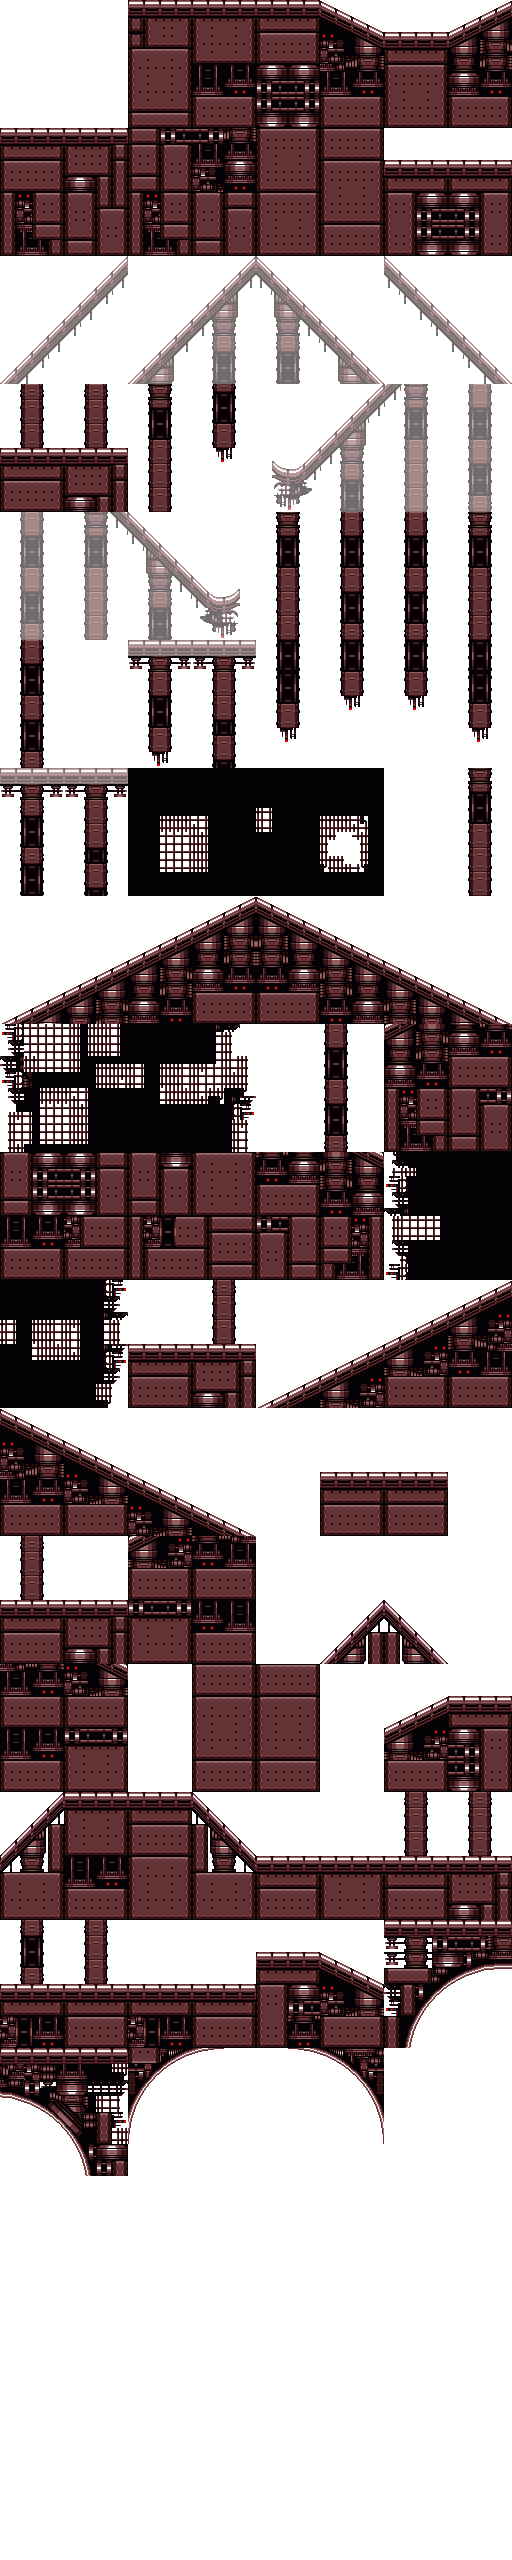
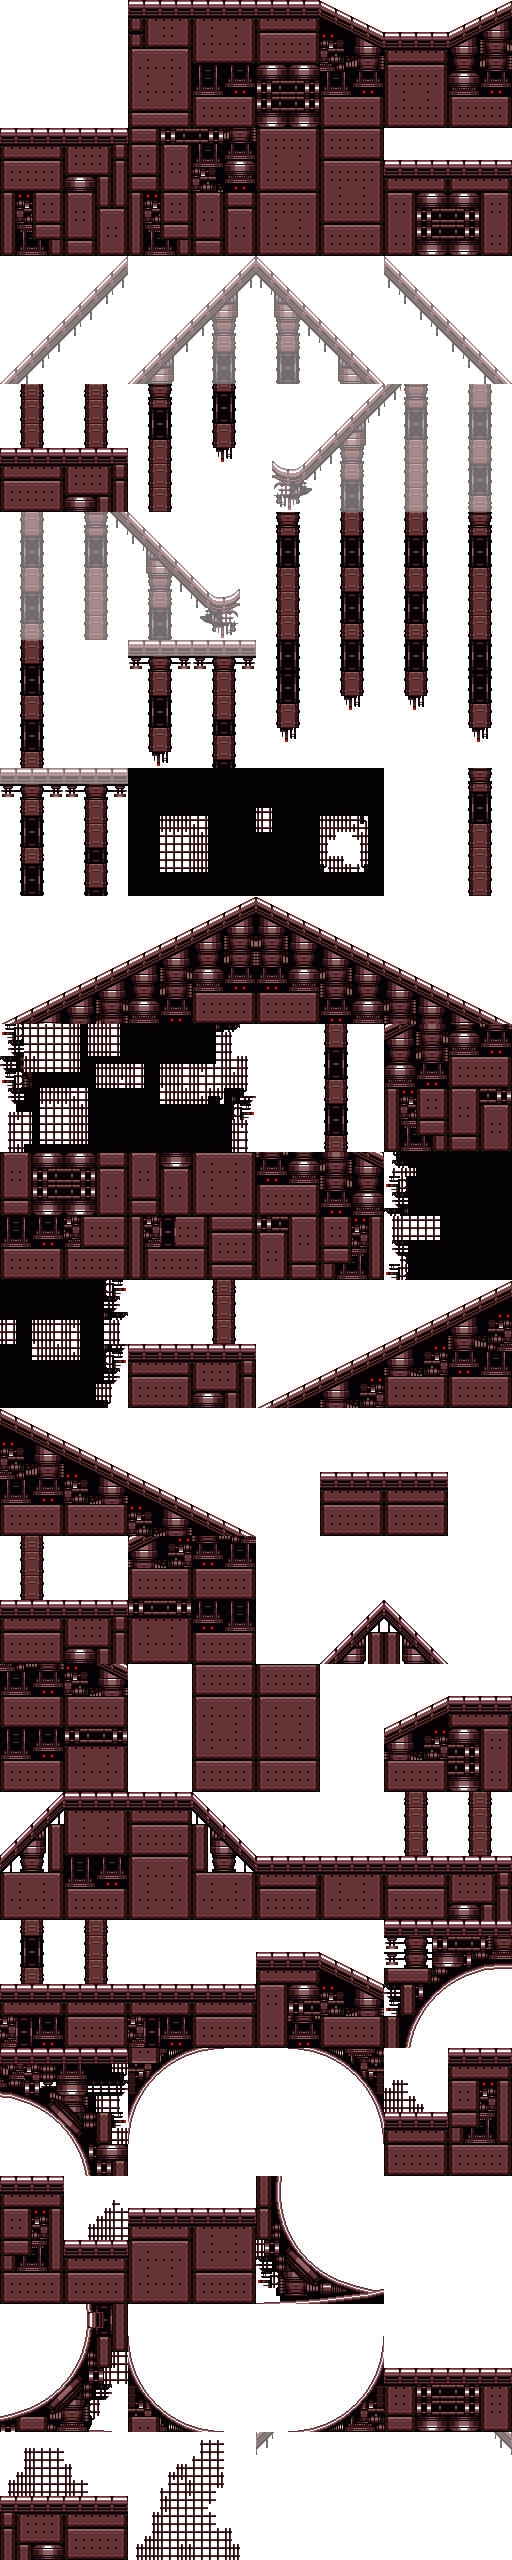
Finish importing chunks for R8

Changed region(s): [[0.0, 0.8438, 1.0, 1.0], [0.75, 0.7812, 1.0, 0.875], [0.5, 0.9375, 0.5312, 0.9688]]

diff --git a/assets/levels/R8/tiles16.tsx b/assets/levels/R8/tiles16.tsx
@@ -1118,4 +1118,168 @@
    </object>
   </objectgroup>
  </tile>
+ <tile id="429">
+  <objectgroup draworder="index" id="2">
+   <object id="1" x="0" y="0">
+    <polygon points="0,0 1.95652,15.8261 0,16"/>
+   </object>
+  </objectgroup>
+ </tile>
+ <tile id="430">
+  <objectgroup draworder="index" id="2">
+   <object id="1" x="0" y="0">
+    <polygon points="0,0 2.30435,0.0434783 5.91304,15.7826 0,16"/>
+   </object>
+  </objectgroup>
+ </tile>
+ <tile id="431">
+  <objectgroup draworder="index" id="2">
+   <object id="1" x="0" y="0">
+    <polygon points="0,0 6.04348,0.0434783 12.9565,15.913 0,16"/>
+   </object>
+  </objectgroup>
+ </tile>
+ <tile id="432">
+  <objectgroup draworder="index" id="2">
+   <object id="1" x="0" y="0">
+    <polygon points="0,0 12.913,0 16,5.08696 16,16 0,16"/>
+   </object>
+  </objectgroup>
+ </tile>
+ <tile id="433">
+  <objectgroup draworder="index" id="2">
+   <object id="1" x="0.0869565" y="4.95652">
+    <polygon points="0,0 8.86957,11.0435 -0.0869565,11.0435"/>
+   </object>
+  </objectgroup>
+ </tile>
+ <tile id="434">
+  <objectgroup draworder="index" id="2">
+   <object id="1" x="0" y="0" width="16" height="16"/>
+  </objectgroup>
+ </tile>
+ <tile id="435">
+  <objectgroup draworder="index" id="2">
+   <object id="1" x="0" y="0">
+    <polygon points="0,0 8.91304,0.0869565 15.9565,6.91304 16,16 0,16"/>
+   </object>
+  </objectgroup>
+ </tile>
+ <tile id="436">
+  <objectgroup draworder="index" id="2">
+   <object id="1" x="0" y="7">
+    <polygon points="0,0 11,8.95652 0,9"/>
+   </object>
+  </objectgroup>
+ </tile>
+ <tile id="437">
+  <objectgroup draworder="index" id="2">
+   <object id="1" x="0" y="0">
+    <polygon points="0,0 10.9565,0 15.9565,2.95652 16,16 0,16"/>
+   </object>
+  </objectgroup>
+ </tile>
+ <tile id="438">
+  <objectgroup draworder="index" id="2">
+   <object id="1" x="0" y="2.91304">
+    <polygon points="0,0 15.913,7 16,13.087 0,13.087"/>
+   </object>
+  </objectgroup>
+ </tile>
+ <tile id="439">
+  <objectgroup draworder="index" id="2">
+   <object id="1" x="0.130435" y="9.91304">
+    <polygon points="0,0 15.8696,3.04348 15.8696,6.08696 -0.130435,6.08696"/>
+   </object>
+  </objectgroup>
+ </tile>
+ <tile id="440">
+  <objectgroup draworder="index" id="2">
+   <object id="1" x="0.0434783" y="13.3478">
+    <polygon points="0,0 15.9565,2.65217 -0.0434783,2.65217"/>
+   </object>
+  </objectgroup>
+ </tile>
+ <tile id="441">
+  <objectgroup draworder="index" id="2">
+   <object id="1" x="16" y="0">
+    <polygon points="0,0 0,16 -2.08696,16.0435"/>
+   </object>
+  </objectgroup>
+ </tile>
+ <tile id="442">
+  <objectgroup draworder="index" id="2">
+   <object id="1" x="16" y="0">
+    <polygon points="0,0 0,16 -6,16.0435 -2,0.0434783"/>
+   </object>
+  </objectgroup>
+ </tile>
+ <tile id="443">
+  <objectgroup draworder="index" id="2">
+   <object id="1" x="16" y="0">
+    <polygon points="0,0 0,16 -13.0435,15.913 -6,0"/>
+   </object>
+  </objectgroup>
+ </tile>
+ <tile id="444">
+  <objectgroup draworder="index" id="2">
+   <object id="1" x="16.087" y="2.91304">
+    <polygon points="0,0 -0.0869565,13.087 -9.08696,13.0435"/>
+   </object>
+  </objectgroup>
+ </tile>
+ <tile id="445">
+  <objectgroup draworder="index" id="2">
+   <object id="1" x="3" y="0">
+    <polygon points="0,0 13,0 13,16 -3,16 -3,3.08696"/>
+   </object>
+  </objectgroup>
+ </tile>
+ <tile id="446">
+  <objectgroup draworder="index" id="2">
+   <object id="1" x="16.0435" y="7.04348">
+    <polygon points="0,0 -0.0434783,8.95652 -11.0435,8.91304"/>
+   </object>
+  </objectgroup>
+ </tile>
+ <tile id="447">
+  <objectgroup draworder="index" id="3">
+   <object id="2" x="6.6087" y="0">
+    <polygon points="0,0 9.3913,0 9.3913,16 -6.6087,16 -6.56522,6.95652"/>
+   </object>
+  </objectgroup>
+ </tile>
+ <tile id="448">
+  <objectgroup draworder="index" id="2">
+   <object id="1" x="0" y="0" width="16" height="16"/>
+  </objectgroup>
+ </tile>
+ <tile id="449">
+  <objectgroup draworder="index" id="2">
+   <object id="1" x="16.0435" y="13.8696">
+    <polygon points="0,0 -0.0434783,2.13043 -16.0435,2.13043"/>
+   </object>
+  </objectgroup>
+ </tile>
+ <tile id="450">
+  <objectgroup draworder="index" id="2">
+   <object id="1" x="16" y="9.91304">
+    <polygon points="0,0 0,6.08696 -16,6.08696 -16,3.95652"/>
+   </object>
+  </objectgroup>
+ </tile>
+ <tile id="451">
+  <objectgroup draworder="index" id="3">
+   <object id="2" x="16" y="2.95652">
+    <polygon points="0,0 0,13.0435 -16,13.0435 -15.9565,6.95652"/>
+   </object>
+  </objectgroup>
+ </tile>
+ <tile id="452">
+  <objectgroup draworder="index" id="2">
+   <object id="1" x="4.69565" y="0">
+    <polygon points="0,0 11.3043,0 11.3043,16 -4.69565,16 -4.65217,2.82609"/>
+   </object>
+  </objectgroup>
+ </tile>
 </tileset>

diff --git a/assets/levels/R8/128x128.tsx b/assets/levels/R8/128x128.tsx
@@ -1,4 +1,4 @@
 <?xml version="1.0" encoding="UTF-8"?>
-<tileset version="1.10" tiledversion="1.11.0" name="128x128" tilewidth="128" tileheight="128" tilecount="56" columns="4">
- <image source="128.png" width="512" height="1792"/>
+<tileset version="1.10" tiledversion="1.11.0" name="128x128" tilewidth="128" tileheight="128" tilecount="80" columns="4">
+ <image source="128.png" width="512" height="2560"/>
 </tileset>
